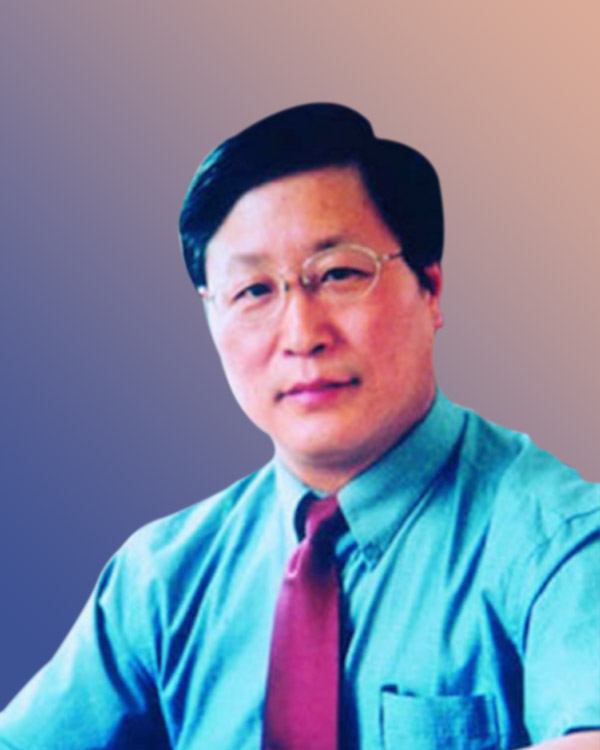
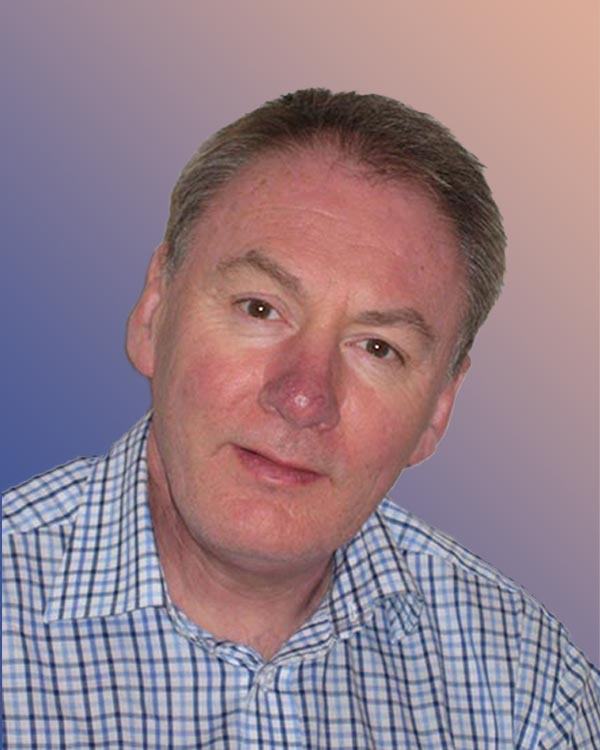
gust add Nicholas La Thangue

diff --git a/src/assets/lang/en.js b/src/assets/lang/en.js
@@ -249,7 +249,14 @@ module.exports = {
       "name": "Jean-Pierre Cazenave",
       "title": "Honorary Professor of Hematology and Transfusion at the University of Strasbourg",
       "desc": "<p>Honorary Professor of Hematology and Transfusion at the University of Strasbourg, Jean-Pierre Cazenave is also president of the Strasbourg medical research association ARMESA, president of the strategic committee of Health & Biotech France, and permanent member of the French National Academy of Medicine. From 1987 to 2013, he held the position of director at the Blood Transfusion Center EFS-Alsace in Strasbourg. Former president (1992-1995) and vice-president (2002-2010) of the Société Française de Transfusion Sanguine, he is currently member of several international medical societies and author of 620 scientific publications.</p>"
-    }
+    },
+    {
+      "id": 51,
+      "active": false,
+      "name": "Nicholas La Thangue",
+      "title": "Nicholas La Thangue, Faculty of Cancer Biology of University of Oxford, Fellow of the Royal Society of Edinburgh, Member of the European Molecular Biology Organization, Fellow of the Academy of Medical Sciences, Fellow of the European Academy of Cancer Sciences",
+      "desc": "<p>Nicholas La Thangue MA BSc PhD FRSE FMedSci  is  Professor of Cancer Biology at the University of Oxford, and was previously Cathcart Professor of Biochemistry at the University of Glasgow, and before that a scientist at the UK Medical Research Council.  He studied for his Ph.D. at University College London and carried out post-doctoral work at Imperial College London.  He is a Fellow of the Royal Society of Edinburgh, a Member of the European Molecular Biology Organisation (EMBO), a Fellow of the Academy of Medical Sciences, a Fellow of the European Academy of Caner Sciences, a Fellow of the Lister Institute and Professorial Fellow at Linacre College Oxford.  </p><p>He has authored over 200 publications and is an inventor on an extensive number of patents.  His academic research is focussed on the molecular mechanisms that give rise to the abnormal proliferation of tumour cells, and translating novel mechanistic insights into new therapeutic opportunities.  He has over 30 years of experience in biotechnology and healthcare sectors. He founded Prolifix in 1995, a successful spin-out from the UK Medical Research Council, focussed on cancer drug discovery and was CSO until its merger with the Scandinavian oncology company TopoTarget. He acted as Chief Business Development Officer in TopoTarget, and was responsible for completing a number of significant deals with both large and mid-size companies, and floating the Company on the Scandinavian Stock Exchange.  He is Founding Director of Celleron Therapeutics and Oxford Cancer Biomarkers, companies focussed on personalised cancer medicines.  He has consulted extensively in the biotechnology and pharmaceutical sector and is an advisor to numerous companies.</p>"
+    },
   ],
   historyA:[
     {

diff --git a/src/assets/lang/cn.js b/src/assets/lang/cn.js
@@ -249,7 +249,14 @@ module.exports = {
       "name": "Jean-Pierre Cazenave（吉恩·皮埃尔·卡泽纳夫）",
       "title": "法国医学科学院院士、法国斯特拉斯堡大学教授、著名血液病学专家",
       "desc": "<p>Jean-Pierre Cazenave是斯特拉斯堡大学血液学和输血学荣誉教授、斯特拉斯堡医学研究协会ARMESA主席、法国卫生与生物技术战略委员会主席，也是法国国家医学院常任理事。1987年至2013年，他担任斯特拉斯堡EFS-Alsace输血中心主任。他分别在1992-1995年间和2002-2010年间担任法国输血协会的会长和副会长。目前，他是若干个国际医学学会的成员，并发表了620份科学出版物。</p>"
-    }
+    },
+    {
+      "id": 51,
+      "active": false,
+      "name": "Nicholas La Thangue",
+      "title": "英国牛津大学癌症生物学教授、爱丁堡皇家学会院士、欧洲分子生物学组织成员、医学科学院院士、欧洲癌症科学院院士",
+      "desc": "<p>Nicholas La Thangue 现为英国牛津大学癌症生物学教授，爱丁堡皇家学会院士，欧洲分子生物学组织 (EMBO) 成员, 医学科学院院士, 欧洲癌症科学院院士，Celleron Therapeutics首席执行官。曾任格拉斯哥大学生物化学教授, 英国医学研究委员会科学家。</p><p>伦敦大学学院博士学位, 伦敦帝国学院博士后。发表文章200多篇,拥有大量发明专利。他的学术研究集中在引起肿瘤细胞异常增生的分子机制上, 并将这些知识转化为新的治疗机会。 在生物技术和医疗保健领域拥有超过30年的经验。于1995年创办了 Prolifix, 是衍生于英国医学研究委员会的成功企业, 专注于癌症药物发现。他担任过 TopoTarget 首席商务发展官, 负责与大中型公司完成一系列重大交易, 并在斯堪的纳维亚证券交易所上市。 他是 Celleron 疗法和牛津癌症生物标志物的创始董事, 该公司专注于个性化的癌症药物。 同时，也是生物技术和制药领域众多公司的咨询顾问。</p>"
+    },
   ],
   historyA:[
     {
